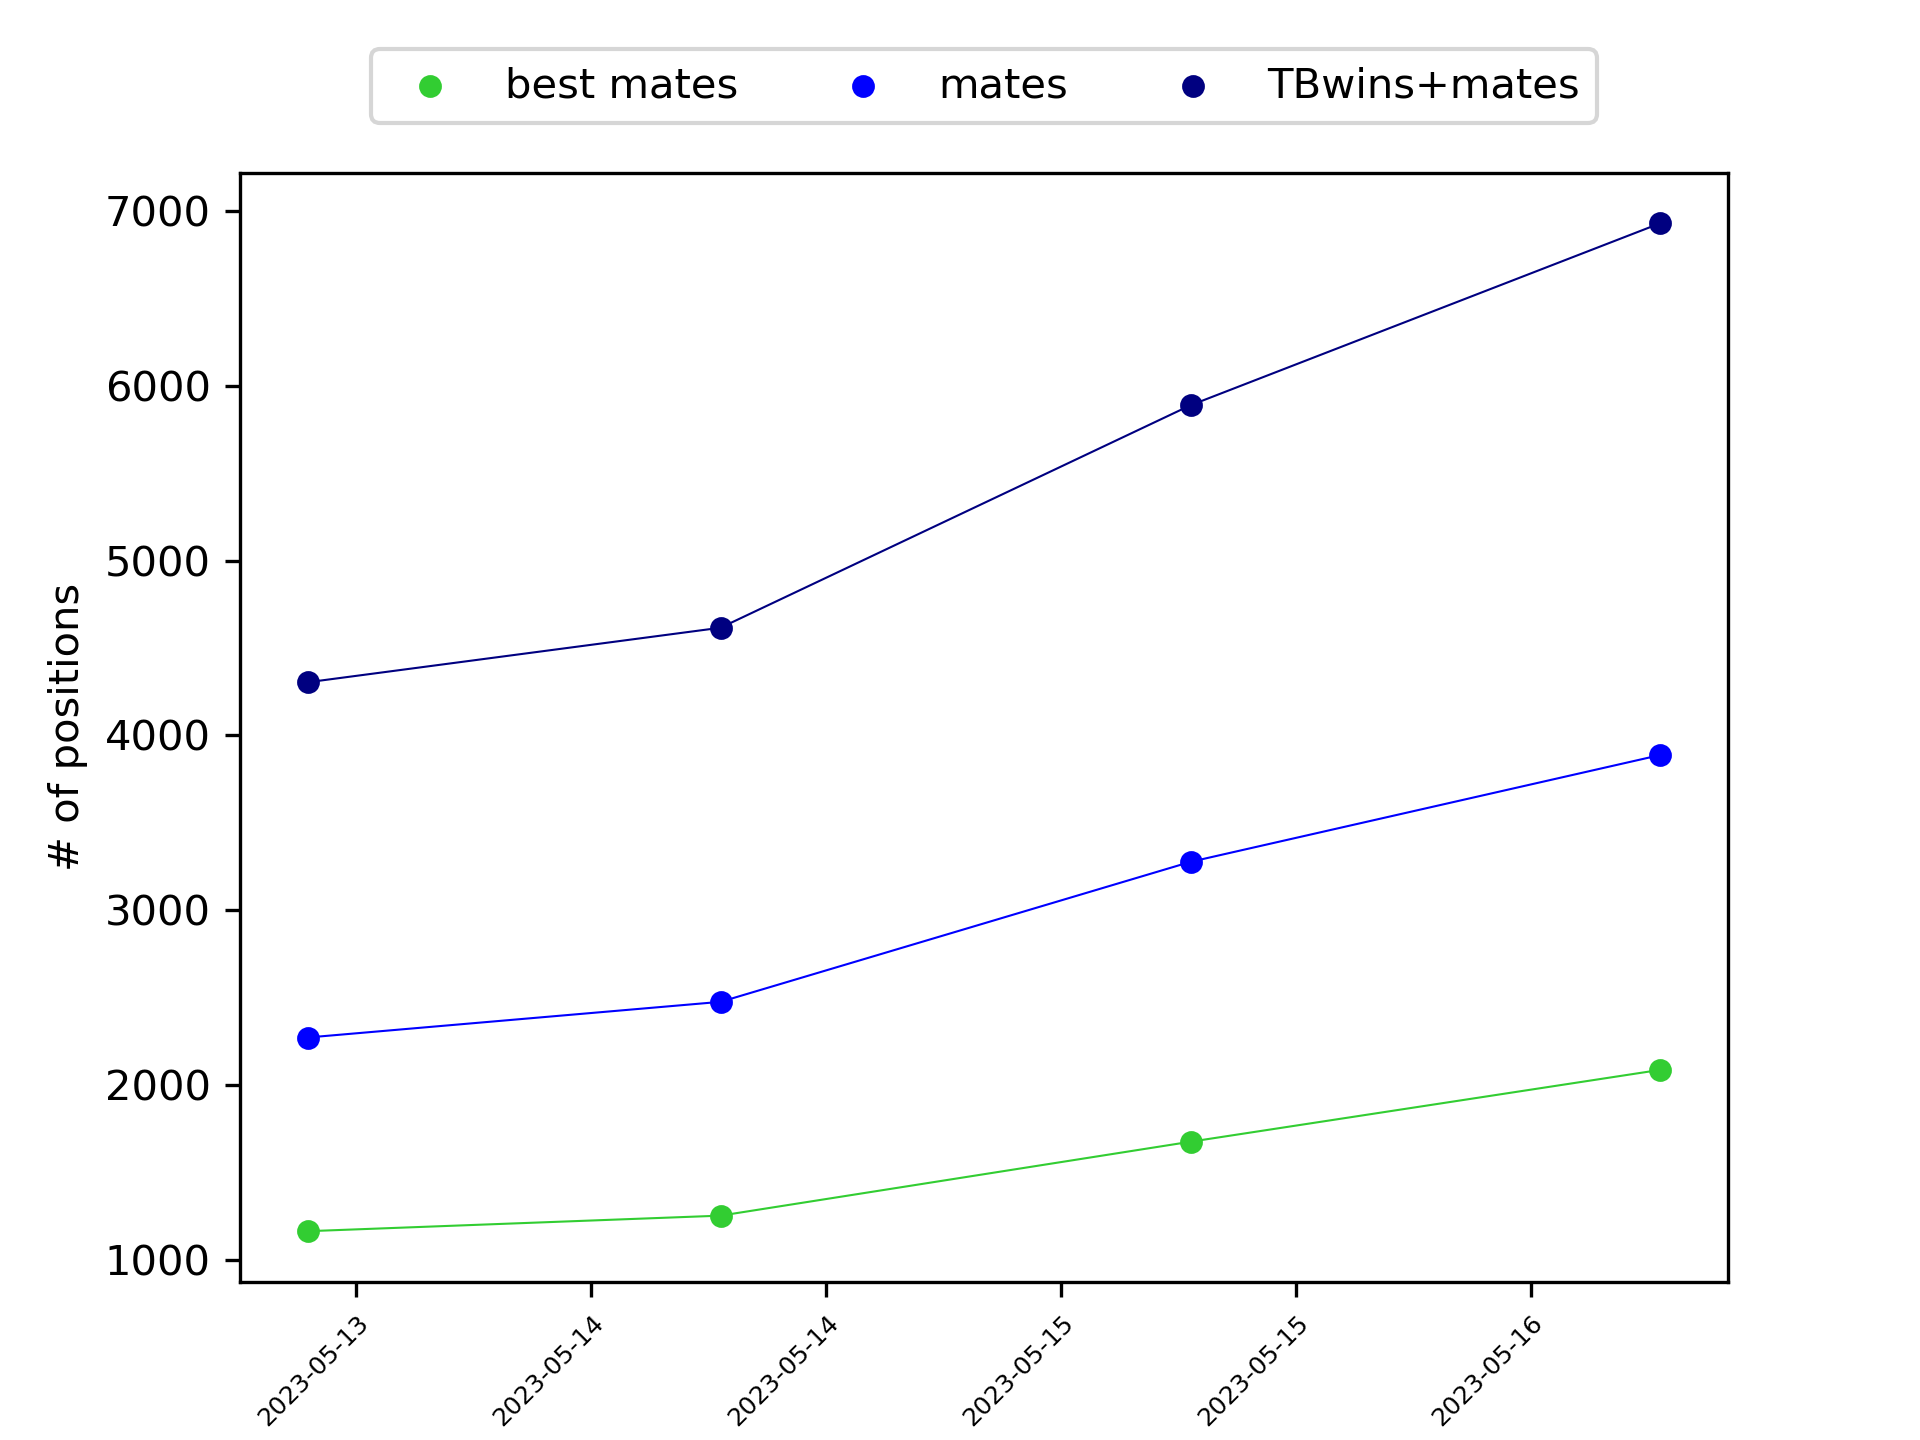
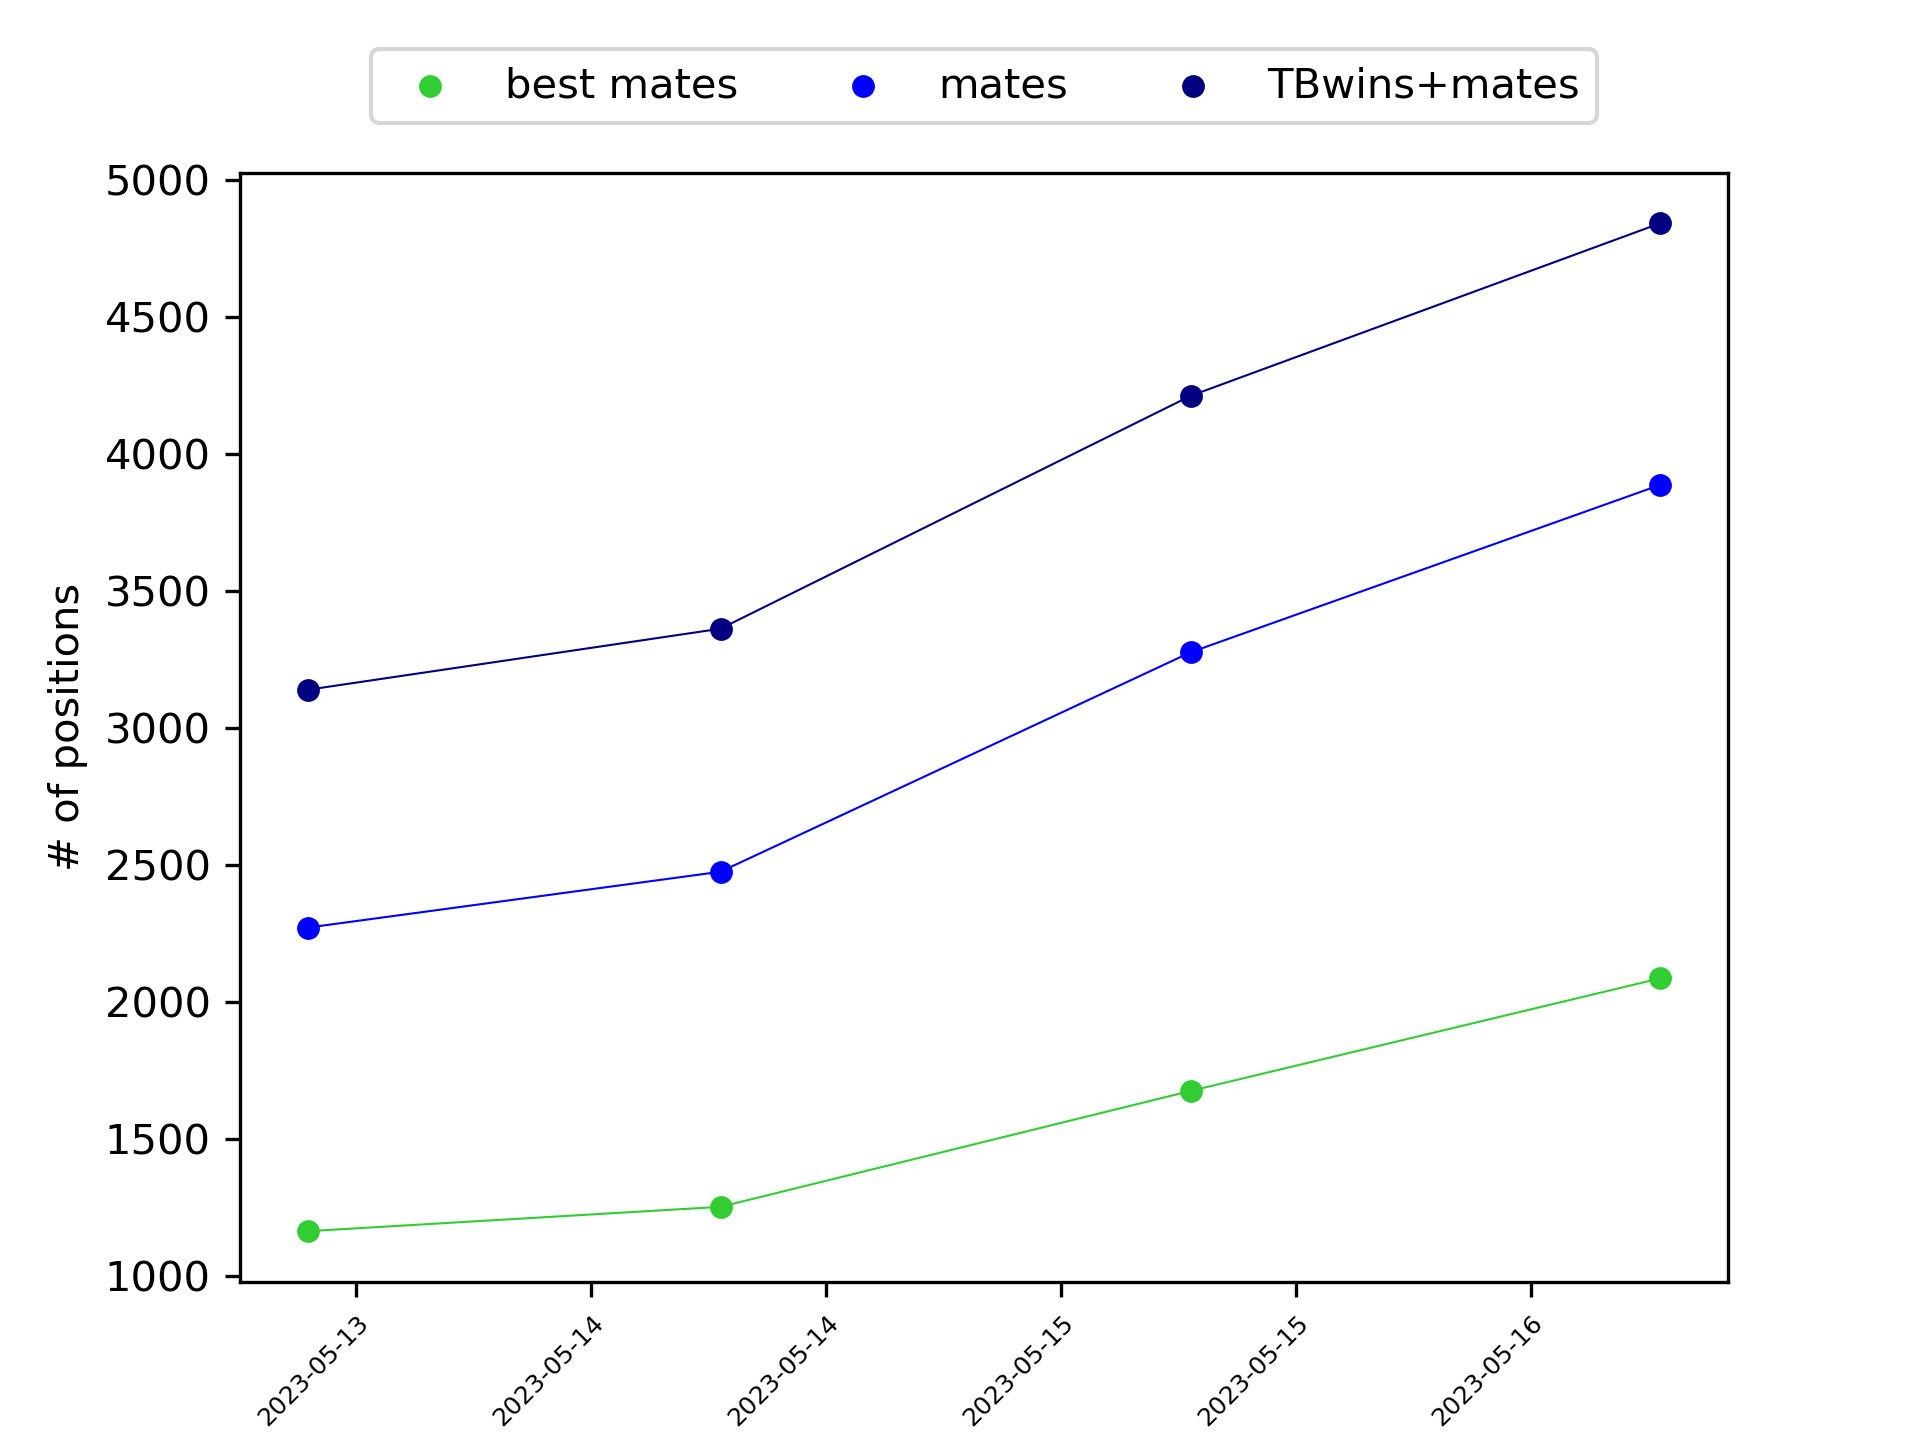
do not count best mates twice

diff --git a/plotdata.py b/plotdata.py
@@ -22,7 +22,7 @@ class matedata:
                     self.date.append(datetime.fromisoformat(parts[0]))
                     self.mates.append(int(parts[2]))
                     self.bmates.append(int(parts[3]))
-                    self.wins.append(int(parts[2]) + int(parts[3]) + int(parts[4]))
+                    self.wins.append(int(parts[2]) + int(parts[4]))
                     self.connected.append(int(parts[5]))
 
     def showdata(self):
